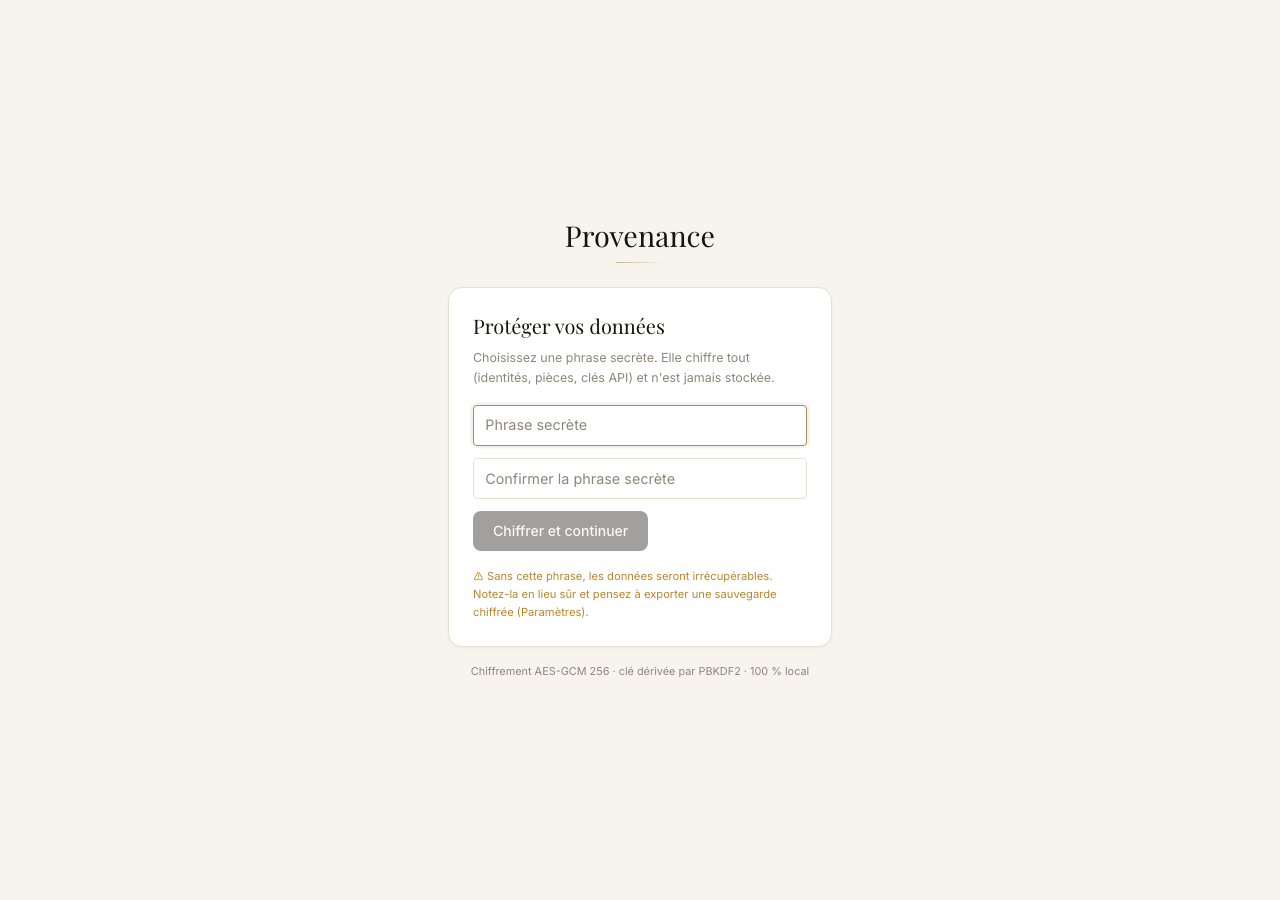
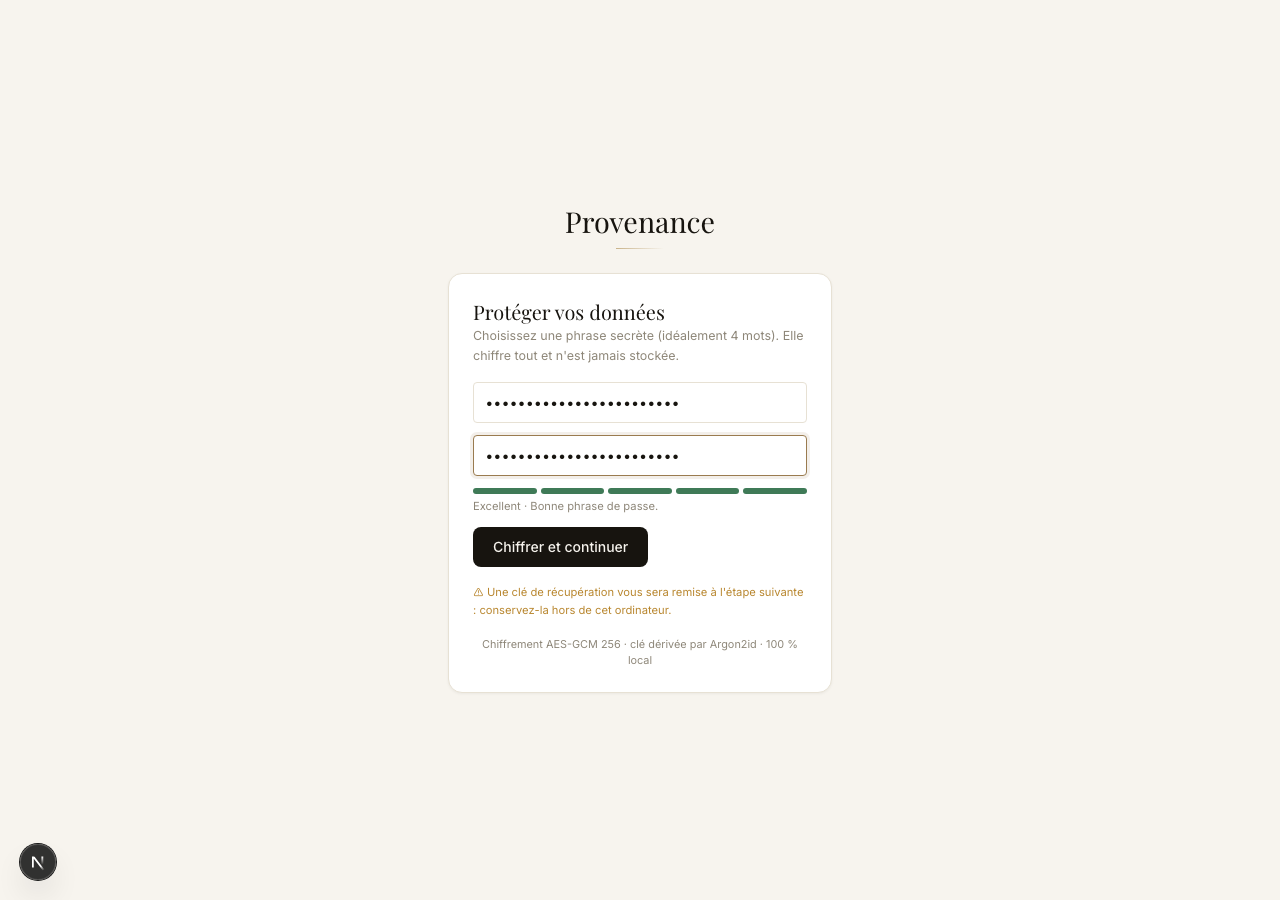
docs: régénère les captures (coffre v2 Argon2id + clé de récupération + screening local) (#21)
- 01-coffre.png : écran de création avec la jauge de force (verte) et le pied
  « clé dérivée par Argon2id ».
- 08-parametres.png : réglé sur « listes officielles » (bannière honnête) + cartes
  verrouillage auto / phrase & clé de récupération / horodatage.
- 13-cle-recuperation.png (nouveau) : écran de remise de la clé de récupération,
  câblé en partie 18.1.
- §12 : légende actualisée (retrait du caveat).
- Rendu vérifié : 0 image cassée.

diff --git a/docs/provenance-dossier-complet.html b/docs/provenance-dossier-complet.html
@@ -641,14 +641,12 @@ revu</strong> (<code>dossiersARevoir</code> / <code>countARevoir</code>).</div>
 <figure class="tall">
   <div class="frame"><span class="dot"></span><span class="dot"></span><span class="dot"></span>&nbsp; Paramètres <span class="scroll-hint">· faites défiler</span></div>
   <div class="shotwrap"><img src="./assets/08-parametres.png" alt="Page des paramètres"></div>
-  <figcaption><b>Paramètres.</b> Identité de la galerie, fournisseur de screening (dont <b>« listes officielles »
-  local</b> avec bandeau de fraîcheur), intervalle de revue, bandeau GAFI, <b>verrouillage auto</b>, <b>changement
-  de phrase &amp; régénération de la clé de récupération</b>, horodatage RFC 3161 opt-in, fournisseur de marché,
-  sauvegarde chiffrée (<code>.vault</code>), rappel « Zéro cloud ».</figcaption>
+  <figcaption><b>Paramètres.</b> Ici le screening est réglé sur <b>« Listes officielles » (local)</b> — la bannière
+  rappelle honnêtement qu'un snapshot graine est <em>non probant</em>. Suivent l'intervalle de revue, le bandeau
+  GAFI, le <b>verrouillage auto</b>, les cartes <b>sauvegarde</b> et <b>phrase secrète &amp; clé de récupération</b>
+  (changement de phrase, régénération de la clé) et l'horodatage RFC 3161 opt-in. Détails en
+  <a href="#durcissement">partie 18</a>.</figcaption>
 </figure>
-<p class="muted" style="font-size:.88rem">La capture ci-dessus précède l'ajout des cartes « verrouillage auto »,
-« phrase &amp; clé de récupération » et « listes officielles » ; leur fonctionnement est décrit en
-<a href="#durcissement">partie 18</a>.</p>
 
 <!-- ============ 13 ============ -->
 <h2 id="workflow"><span class="num">13</span>Le workflow complet, de bout en bout</h2>
@@ -809,6 +807,13 @@ clé invalide l'ancienne.</li>
 les phrases faibles (min. 12 caractères, format « phrase de passe » encouragé).</li>
 </ul></div>
 </div>
+<figure>
+  <div class="frame"><span class="dot"></span><span class="dot"></span><span class="dot"></span>&nbsp; Coffre — remise de la clé de récupération</div>
+  <div class="shotwrap"><img src="./assets/13-cle-recuperation.png" alt="Écran de remise de la clé de récupération"></div>
+  <figcaption><b>Clé de récupération.</b> Présentée une seule fois à la création (et après migration v1→v2), à
+  conserver hors de l'ordinateur. C'est la seule autre issue si la phrase est oubliée — d'où l'avertissement :
+  perte de la phrase <em>et</em> de cette clé = données irrécupérables.</figcaption>
+</figure>
 
 <h3>18.2 — Couverture KYC des personnes</h3>
 <p>L'audit a montré que, côté œuvres, la checklist était quasi complète, mais que des attendus KYC manquaient côté
